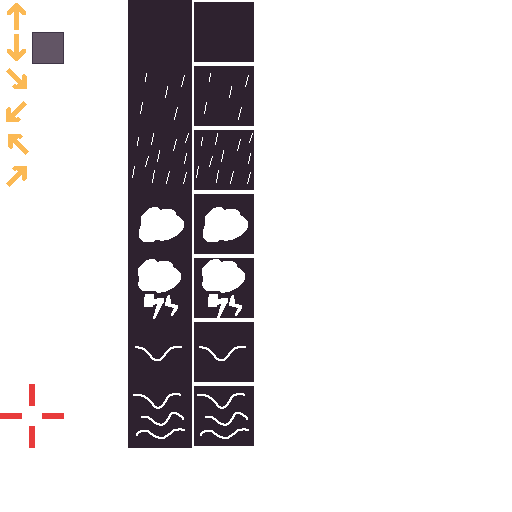
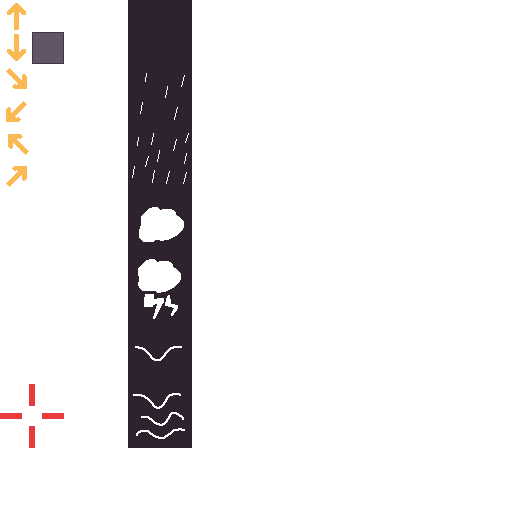
v0.6.043

Changed region(s): [[0.375, 0.0, 0.5, 0.875]]

diff --git a/gamestream_flutter/lib/editor/editor_ui.dart b/gamestream_flutter/lib/editor/editor_ui.dart
@@ -66,12 +66,32 @@ class EditorUI {
     });
   }
 
-  static Widget buildIconRain(Rain rain) {
-    return onPressed(
-        action: () => GameNetwork.sendClientRequestWeatherSetRain(rain),
-        child: GameUI.buildAtlasIconType(convertRainToIconType(rain), size: 64),
-    );
-  }
+  static Widget buildIconRain(Rain rain) =>
+      watch(GameState.rain, (Rain activeRain) {
+        const Size = 64.0;
+        final isActive = rain == activeRain;
+        return Stack(
+          children: [
+            onPressed(
+              action: isActive ? null : () => GameNetwork.sendClientRequestWeatherSetRain(rain),
+              child: GameUI.buildAtlasIconType(convertRainToIconType(rain), size: Size),
+            ),
+            if (isActive)
+              Container(
+                 width: Size,
+                 height: Size,
+                 decoration: GameUI.buildDecorationBorder(
+                     colorBorder: Colors.white,
+                     colorFill: Colors.transparent,
+                     width: 2,
+                     borderRadius: 0,
+                 ),
+              ),
+          ],
+        );
+      });
+
+
 
   static int convertRainToIconType(Rain rain){
     switch (rain) {

diff --git a/gamestream_flutter/lib/game_ui.dart b/gamestream_flutter/lib/game_ui.dart
@@ -432,4 +432,16 @@ class GameUI {
       ]);
     });
   }
+
+  static Decoration buildDecorationBorder({
+    required Color colorBorder,
+    required Color colorFill,
+    required double width,
+    double borderRadius = 0.0,
+  }) =>
+    BoxDecoration(
+        border: Border.all(color: colorBorder, width: width),
+        borderRadius: BorderRadius.circular(borderRadius),
+        color: colorFill
+    );
 }

diff --git a/gamestream_flutter/lib/game_state.dart b/gamestream_flutter/lib/game_state.dart
@@ -17,7 +17,6 @@ class GameState {
   static final watchTimePassing = Watch(false);
   static final debugVisible = Watch(false);
   static final rain = Watch(Rain.None, onChanged: GameEvents.onChangedRain);
-  // static var npcTextVisible = false;
   static final windAmbient = Watch(Wind.Calm, onChanged: GameEvents.onChangedWind);
   static final torchesIgnited = Watch(true);
   static const tileHeight = 24.0;

diff --git a/bleed-common/lib/version.dart b/bleed-common/lib/version.dart
@@ -1,1 +1,1 @@
-const version = 'v0.6.042';
+const version = 'v0.6.043';

diff --git a/bleed-server/bin/common/version.dart b/bleed-server/bin/common/version.dart
@@ -1,1 +1,1 @@
-const version = 'v0.6.042';
+const version = 'v0.6.043';
